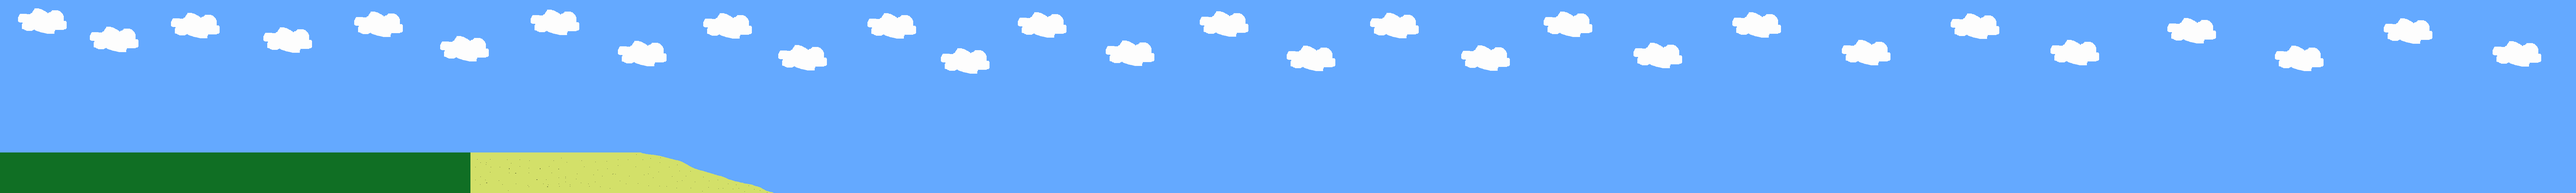
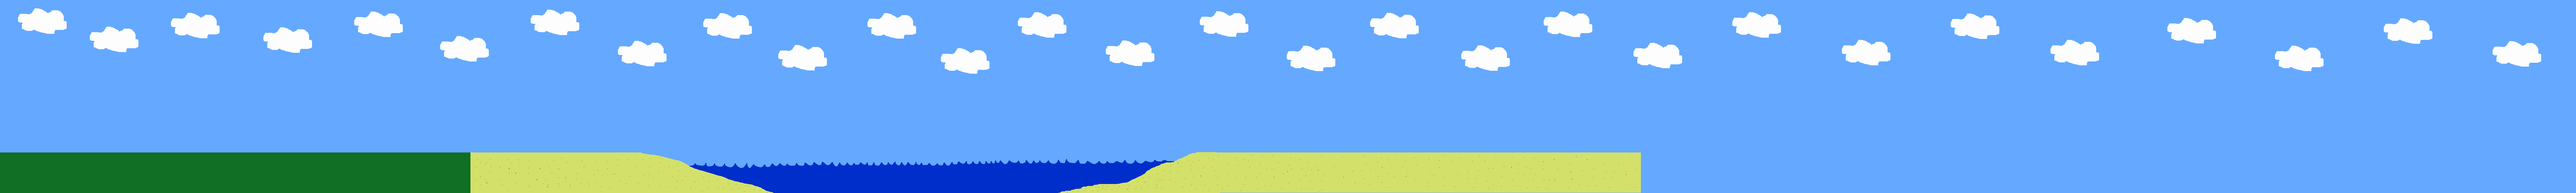
game changes
game changes

Changed region(s): [[0.25, 0.78, 0.6562, 1.0]]

diff --git a/js/main.js b/js/main.js
@@ -10,24 +10,18 @@ window.onload = function() {
     // You will need to change the paths you pass to "game.load.image()" or any other
     // loading functions to reflect where you are putting the assets.
     // All loading functions will typically all be found inside "preload()".
-    //Test commit
-//     "use strict";
     
     var game = new Phaser.Game( 800, 600, Phaser.AUTO, 'game', { preload: preload, create: create, update: update, render: render});
     
     function preload() {
         game.load.image('world', 'assets/world.png');
         game.load.image('platform1', 'assets/platform1.png');
-        game.load.image('water1','assets/water1.png');
-        game.load.image('water2','assets/water1.png');
-        game.load.spritesheet('guy','assets/guy.png',73.5,125);
+        game.load.spritesheet('guy','assets/guy.png',73.5,122.5);
         game.load.audio('theme', ['assets/theme.wav']);
     }
     
     var platform1;
     var world;
-    var water1;
-    var water2;
     var guy;
     var jumpTimer = 0;
     var aButton;
@@ -43,11 +37,9 @@ window.onload = function() {
     	game.physics.arcade.gravity.y = 250;
     	game.time.desiredFps = 30;
     	
-    	world = game.add.sprite(0, 0, 'world');
-        platform1= game.add.sprite(1990, 210, 'platform1'); 
-        water1 = game.add.sprite(1993,116,'water1');
-        water2 = game.add.sprite(1993,156,'water2');
+    	world = game.add.sprite(0, 0, 'world'); 
         guy = game.add.sprite(50,500,'guy');
+        platform1 = game.add.sprite(1920, 420, 'platform1');
         
         game.physics.enable(guy, Phaser.Physics.ARCADE);
         game.physics.enable(platform1, Phaser.Physics.ARCADE);
@@ -56,6 +48,12 @@ window.onload = function() {
         guy.body.collideWorldBounds = true;
         guy.body.gravity.set(0, 180);
         
+        platform1.body.collideWorldBounds = true;
+        platform1.body.bounce.y = 0.2;
+        platform1.body.immovable = true;
+        platform1.body.gravity.set(0, 0);
+        
+        
         theme = game.add.audio('theme',1,true);
         theme.play('',0,1,true);
         
@@ -63,9 +61,10 @@ window.onload = function() {
         guy.animations.add('run', [13,14,15,16,17,18,19,20,21,22], 13, true);
         guy.animations.add('jump', [27,28,29,30,31,32,33,34,35,36,26],13,false);
         guy.animations.add('stand', [26],13,false);
+        
         cursors = game.input.keyboard.createCursorKeys();
-        aButton = game.input.keyboard.addKey(Phaser.Keyboard.DOWN); // 90
-        bButton = game.input.keyboard.addKey(Phaser.Keyboard.X); // 88
+        aButton = game.input.keyboard.addKey(Phaser.Keyboard.Z);
+        bButton = game.input.keyboard.addKey(Phaser.Keyboard.X);
     }
     
     function update() {
@@ -113,6 +112,7 @@ window.onload = function() {
     if(!cursors.right.isDown && !cursors.left.isDown && !cursors.up.isDown){
         guy.animations.play('stand',13,true);
     }
+    game.physics.arcade.collide(guy, platform1);
     }
 
 

diff --git a/index.html b/index.html
@@ -22,7 +22,12 @@ body
 <body>
 <div id="game"></div>
 <div id="readme">
-<h2>Richio!</h2>
+<h2 align = "center">Let's Play!</h2>
+<ul>
+	<li>Use the left, right and up arrow keys to move left, right and jump.</li>
+	<li>Press 'Z' to run.</li>
+	<li>Press 'X' to shoot.</li>
+</ul>
 </div>
 </body>
 </html>
